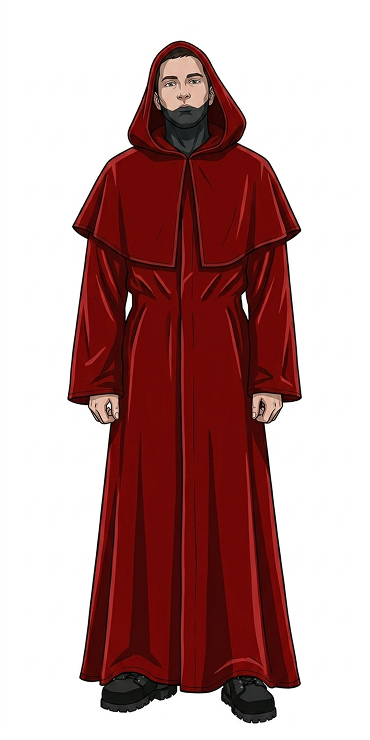
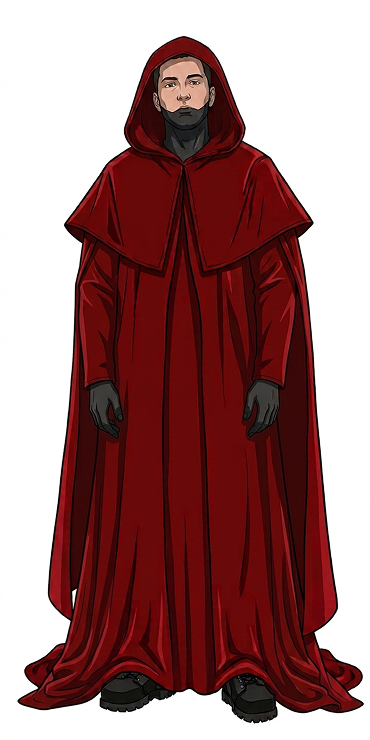
Finalizando seção Personagens, por hora

diff --git a/src/data/characters.ts b/src/data/characters.ts
@@ -4,7 +4,7 @@ export const characters: Character[] = [
   {
     id: 1,
     name: 'Clancy',
-    imageUrl: ['clancy.png', 'clancy2.png'],
+    imageUrl: ['clancy.png', 'clancy2.png', 'clancy3.png', 'clancy4.png', 'clancy5.png'],
     accentColor: '#E5CC0A',
     description: 'Clancy é o protagonista da lore construída pela Twenty One Pilots, um homem preso dentro dos limites de Trench (também chamada de Dema), uma cidade cercada por nove torres de pedra vigiadas pelos misteriosos Bishops.\n Sua história é contada de forma fragmentada ao longo dos álbuns Blurryface, Trench, Scaled and Icy e Clancy, através de letras, videoclipes e símbolos escondidos.\n Ao longo da narrativa, Clancy tenta escapar das muralhas amarelas que isolam Trench do mundo exterior, enfrentando os Bishops, figuras que mantêm os habitantes presos através do medo e da vigilância constante.\n Sua jornada é acompanhada por um grupo de rebeldes chamado Banditos, que também lutam contra o controle imposto pela cidade.\n O álbum Clancy (2024), que encerra essa fase da lore, marca o momento em que ele finalmente confronta Nico, o líder dos Bishops, buscando não só a própria liberdade, mas também resgatar quem ficou para trás em Trench.',
     faction: 'Banditos',
@@ -12,7 +12,7 @@ export const characters: Character[] = [
   {
     id: 2,
     name: 'Torchbearer',
-    imageUrl: ['torchbearer.png', 'torchbearer2.png'],
+    imageUrl: ['torchbearer.png', 'torchbearer2.png', 'torchbearer3.png', 'torchbearer4.png'],
     accentColor: '#E5CC0A',
     description: 'O Torchbearer é o líder espiritual e tático dos Banditos, o grupo rebelde que luta contra o controle imposto pelos Bishops sobre a cidade de Dema. Interpretado por Josh Dun, ele veste as cores verde-oliva e amarelo características dos Banditos. O amarelo é usado justamente porque os Bishops não conseguem enxergar essa cor, o que faz dela um símbolo de esperança e invisibilidade contra o regime.\n Enquanto Clancy representa a luta interna da mente, o Torchbearer representa o suporte externo necessário pra sobreviver à jornada por Trench, ele guia Clancy, aparecendo nos momentos de fuga pra oferecer luz e direção em meio à escuridão da cidade murada.\n Sua real natureza é um dos grandes mistérios da lore: o Clancy que acompanhava o protagonista durante o isolamento na ilha de Voldsøy era apenas uma projeção, criada para guiá-lo de volta ao continente, revelando que o verdadeiro Torchbearer estava, o tempo todo, construindo e liderando o exército dos Banditos em Trench',
     faction: 'Banditos',

diff --git a/src/App.tsx b/src/App.tsx
@@ -53,8 +53,12 @@ function App() {
       setActiveCostumeIndex(2);
     }
 
-    else {
+    else if(index===activeCharacter.imageUrl[3]) {
       setActiveCostumeIndex(3);
+    }
+
+    else {
+      setActiveCostumeIndex(4);
     }
     
   }
